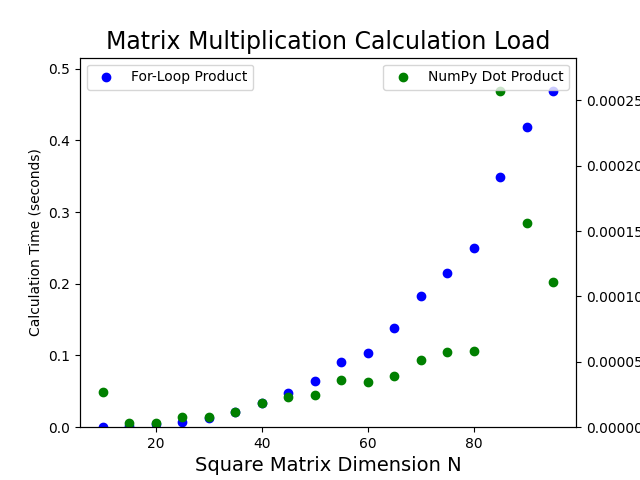
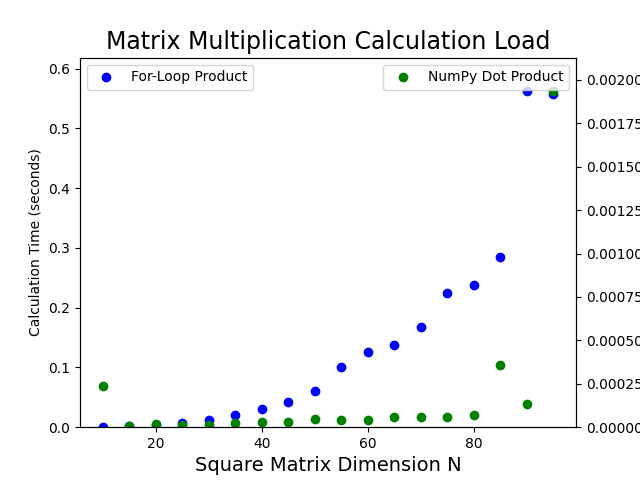
Prob 2 graphed

diff --git a/PS-3/prob2.py b/PS-3/prob2.py
@@ -29,39 +29,43 @@ def decay_process(tau,parent):
     daughtergain = decay
     return parentloss, daughtergain
 
-
 def Bi213_decay():
     if random()<0.9791:
-        Bi_Pb = True
-        Bi_Tl = False
+        return 1,0
     else:
-        Bi_Pb = False
-        Bi_Tl = True
-    return Bi_Pb, Bi_Tl
+        return 0,1
+    
 
+#initialization of 2D array which keeps track of isotope number (columns) vs time (rows)
 isocount = np.zeros((int(t_max/deltat),4),dtype=int)
+isocount[0,0] = Bi213
+isocount[0,1] = Tl209
+isocount[0,2] = Pb209 
+isocount[0,3] = Bi209
 
-Pb_Bi = decay_process(tau_Pb209,isocount[t-1,2],[t-1,3])
-Tl_Pb = decay_process(tau_Tl209,isocount[t-1,1],[t-1,2])
-Bi_Pb = decay_process(tau_Bi213,isocount[t-1,0],[t-1,2])
-Bi_Tl = decay_process(tau_Bi213,isocount[t-1,0],[t-1,1])
+
 
 #calls decay_process with global count of each isotope. I need the input 
 def isodecays(): 
-    isocount[0,0] = Bi213
     isochange = np.zeros((int(t_max/deltat),4),dtype=int)
-    for t in tpoints:
-        Bi213_decay()
-        isochange[t,:] = (Bi213_decay[0]+Bi213_decay[1], #change in Bi213 atoms.
-                        Bi213_decay[1]+Tl_Pb[0], #change in Ti209 atoms.
-                        Bi213_decay[1]+Tl_Pb[1]+Pb_Bi[0] #change in Pb209 atoms.
-                        Pb_Bi[1]) #change in Bi209 atoms.
+    for t in range(1,len(tpoints)):
+        Pbpath,Tlpath = Bi213_decay()
+        Bi_Tl = decay_process(tau_Bi213,isocount[t-1,0])
+        Bi_Pb = decay_process(tau_Bi213,isocount[t-1,0])
+        Tl_Pb = decay_process(tau_Tl209,isocount[t-1,1])
+        Pb_Bi = decay_process(tau_Pb209,isocount[t-1,2])
+        
+        isochange[t,:] = (Pbpath*Bi_Pb[0] + Tlpath*Bi_Tl[0], Tlpath*Bi_Tl[1] + Tl_Pb[0], Pbpath*Bi_Pb[1] + Tl_Pb[1] + Pb_Bi[0], Pb_Bi[1])
         isocount[t,:] = isocount[t-1,:] + isochange[t,:]
     return isocount
 
+isocount = isodecays()
 
-        
-
+plt.plot(tpoints,isocount[:,0],label = 'B213')
+plt.plot(tpoints,isocount[:,1],label = 'B213')
+plt.plot(tpoints,isocount[:,2],label = 'B213')
+plt.plot(tpoints,isocount[:,3],label = 'B213')
+plt.savefig('isocount')
 
 
     

diff --git a/PS-3/prob1.py b/PS-3/prob1.py
@@ -5,7 +5,6 @@ import time
 
 
 def matrixx(N,A,B):
-def matrixx(N,A,B):
     F = np.zeros((N,N))
     startx = time.perf_counter()
     for i in range(N):
@@ -54,7 +53,7 @@ calcdot.set_ylim(0, max(timedot_avg) * 1.1)
 # Add legends
 
 calcx.legend(loc='upper left')
-calcdot.legend(loc='middle left')
+calcdot.legend(loc='upper right')
 
 plt.title('Matrix Multiplication Calculation Load', fontsize=17)
 plt.savefig('Matrices')
